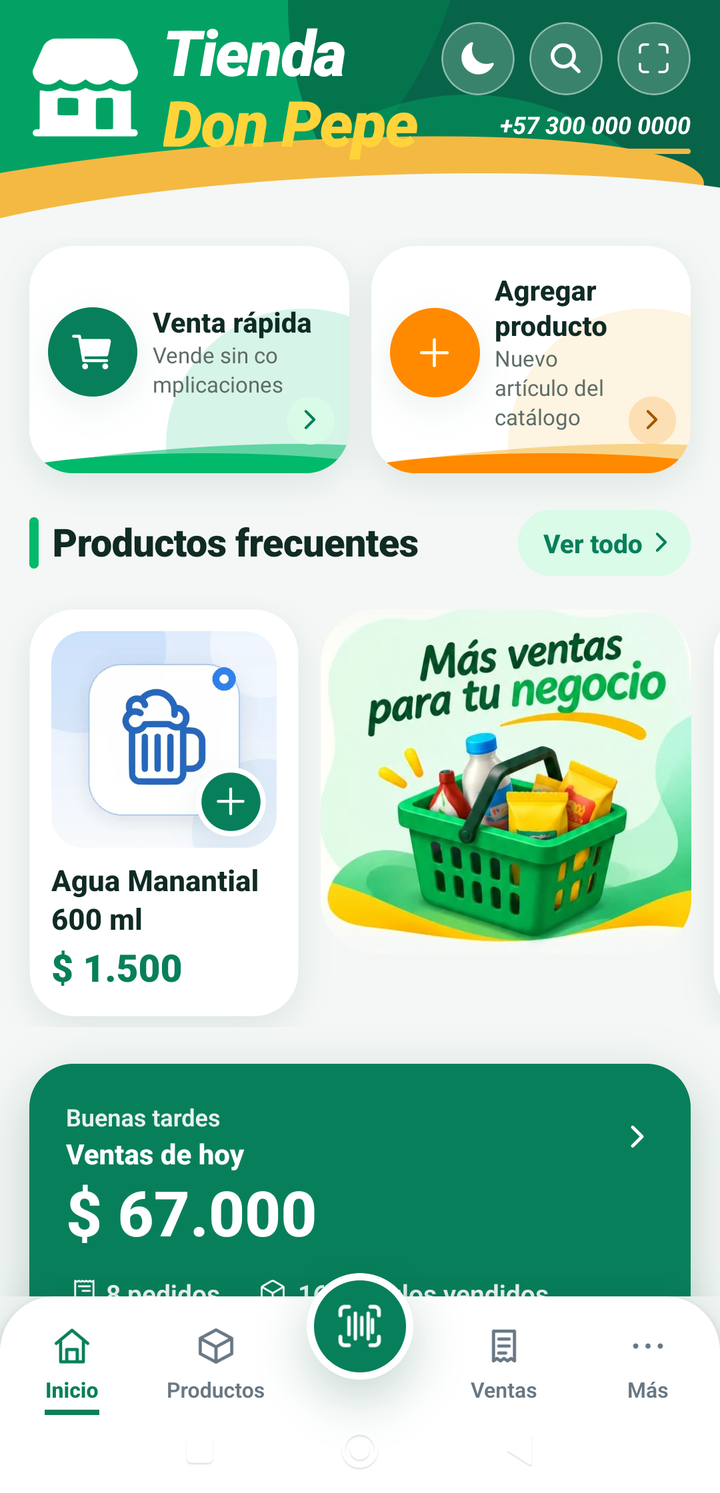
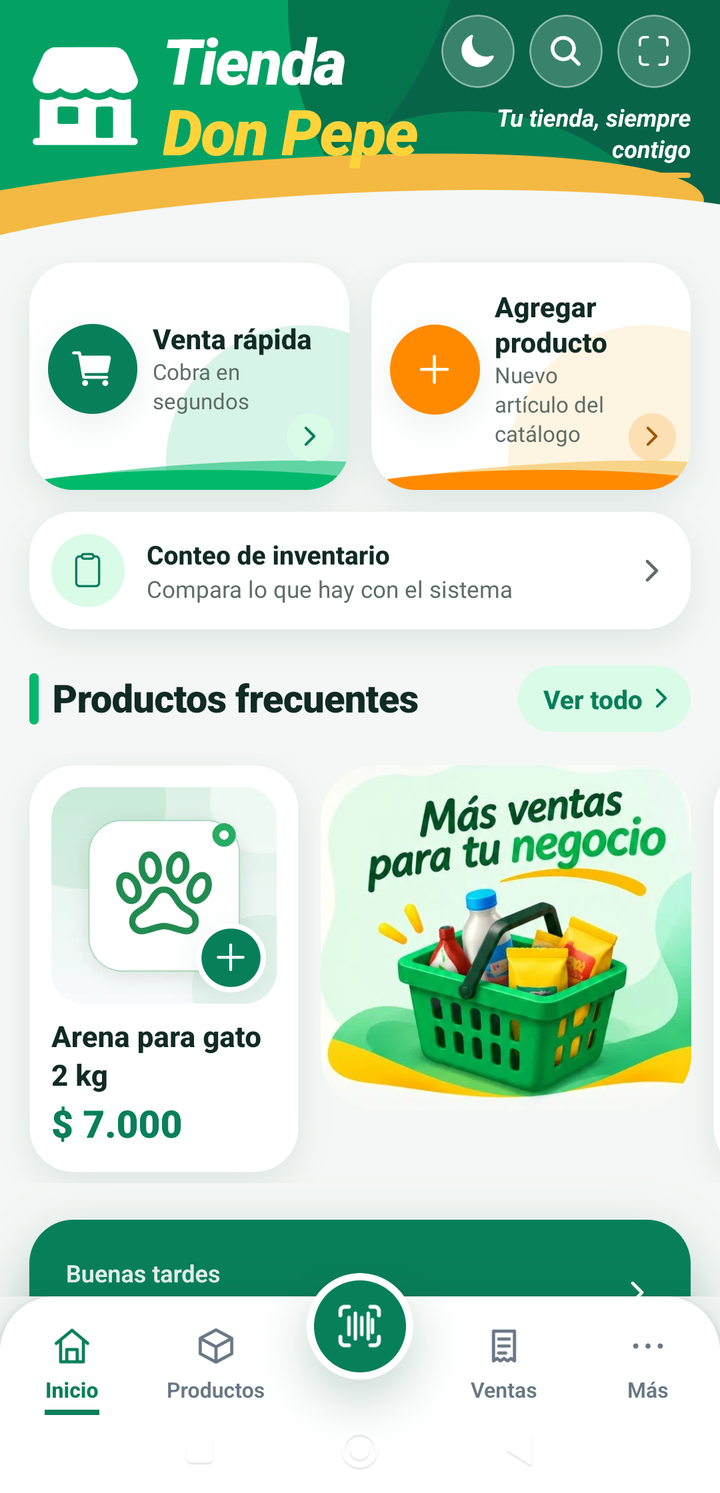
Actualizar las capturas de Inicio y Productos y la imagen social
Capturas tomadas en el Redmi Note 9 con la APK del build #53 (el código
de main con el conteo), con datos ficticios (Tienda Don Pepe). Inicio
ya no muestra el texto partido de Venta rápida y sí la tarjeta de
conteo; Productos muestra Por agotarse, Agotados y disponibles en vez
de stock. og-image.png regenerada con scripts/make-og-image.py. Textos
alternativos ajustados a lo que se ve.

Cobro, Ventas, Más y Reportes no tenían textos cambiados y se quedan.
verify.sh en verde (incluye landingImages.test.ts).

diff --git a/landing/index.html b/landing/index.html
@@ -235,7 +235,7 @@
           <div class="phone-screen"><img src="assets/screen-checkout.webp" width="720" height="1493" alt="Pantalla de cobro de Surtivox POS con los medios de pago y el total de la venta" loading="lazy"></div>
         </div>
         <div class="phone phone-front">
-          <div class="phone-screen"><img src="assets/screen-home.webp" width="720" height="1493" alt="Pantalla de inicio de Surtivox POS con las ventas del día y los accesos rápidos" fetchpriority="high"></div>
+          <div class="phone-screen"><img src="assets/screen-home.webp" width="720" height="1493" alt="Pantalla de inicio de Surtivox POS con los accesos rápidos y el conteo de inventario" fetchpriority="high"></div>
         </div>
         <div class="chip chip-offline"><span class="status-dot" aria-hidden="true"></span>Sin internet</div>
         <div class="chip chip-pay">Efectivo · Nequi · Daviplata · Fiado</div>

diff --git a/README.md b/README.md
@@ -44,7 +44,7 @@ Si el navegador avisa que el archivo puede ser dañino, toca **Descargar de todo
 ---
 
 <div align="center">
-  <img src="docs/screenshots/01-inicio.png" width="46%" alt="Pantalla de inicio con ventas del día, accesos rápidos y productos frecuentes" />
+  <img src="docs/screenshots/01-inicio.png" width="46%" alt="Pantalla de inicio con accesos rápidos, conteo de inventario y productos frecuentes" />
   <img src="docs/screenshots/02-productos.png" width="46%" alt="Pantalla de productos con búsqueda, filtros de inventario y la lista con precios y existencias" />
   <br />
   <img src="docs/screenshots/03-ventas.png" width="46%" alt="Pantalla de ventas con filtros por periodo y total del día" />
